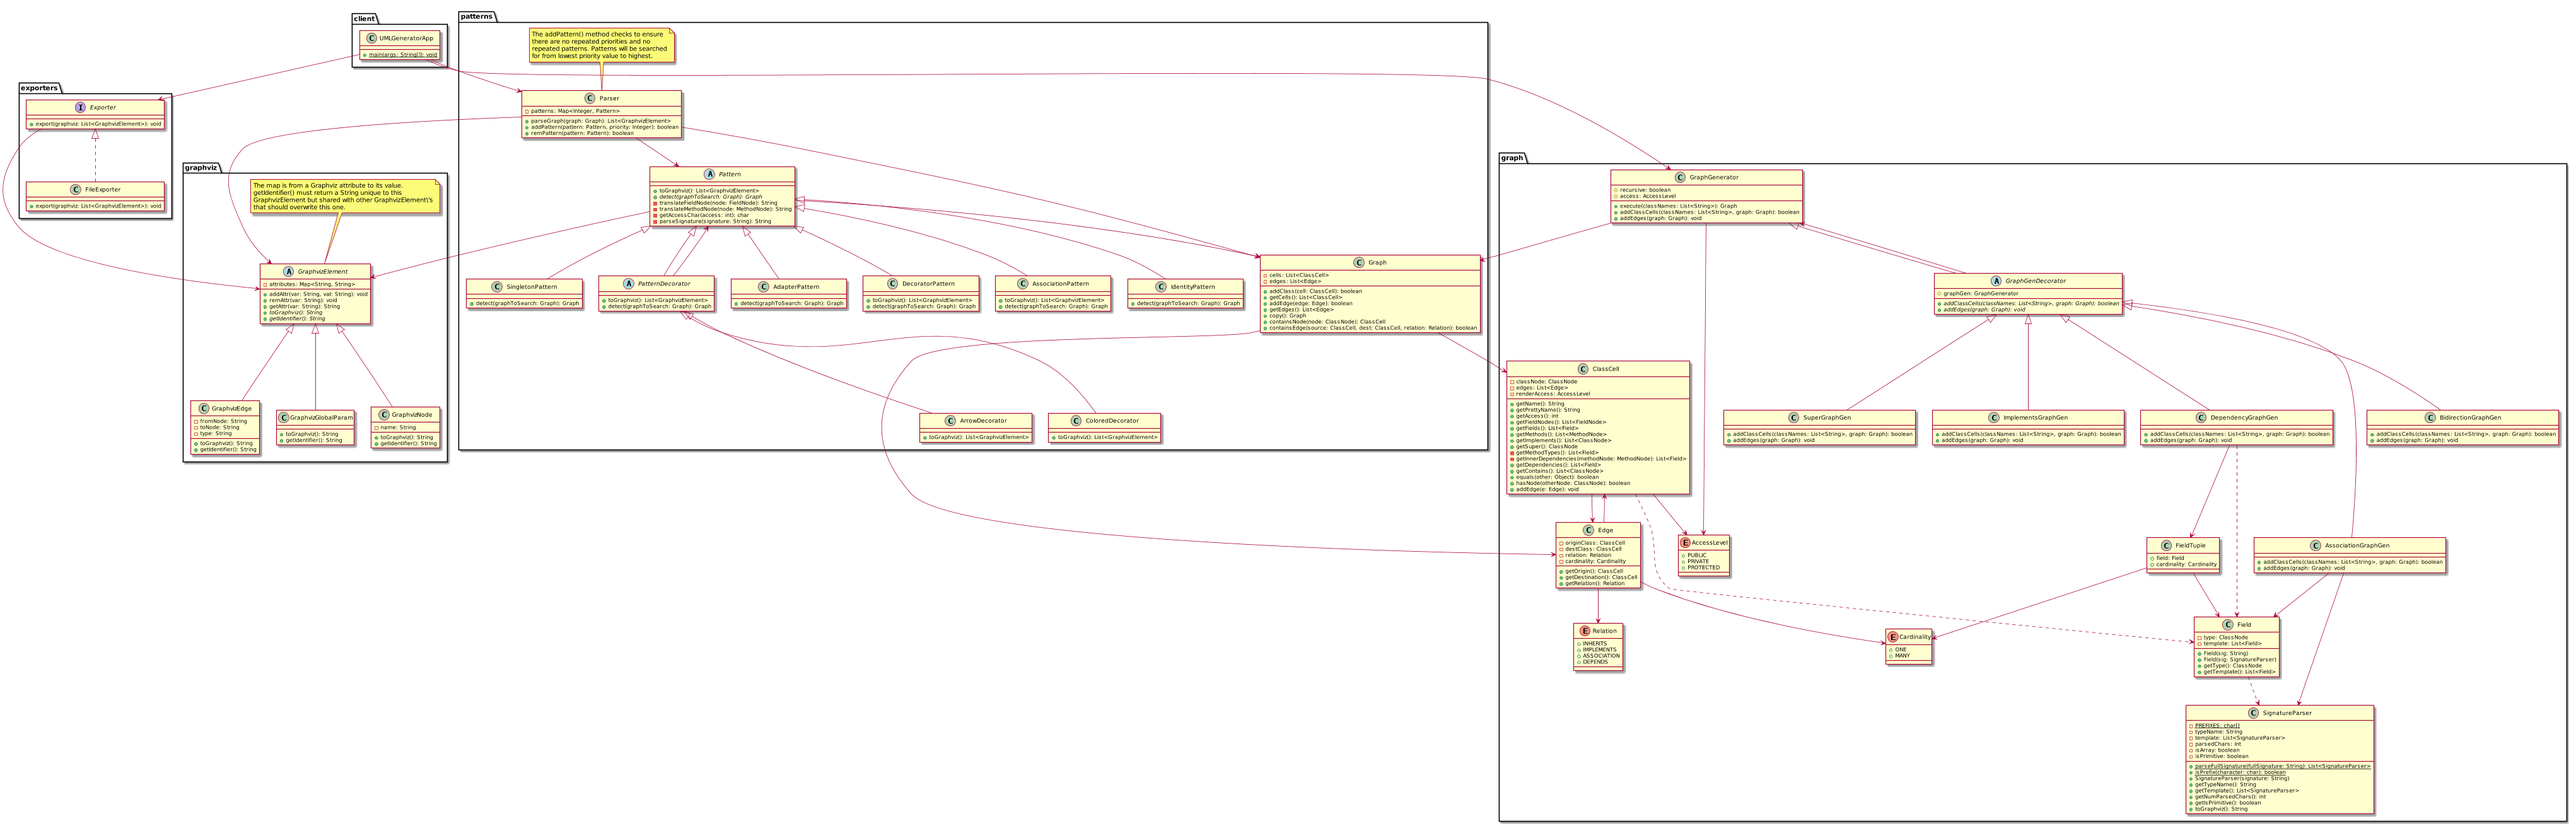
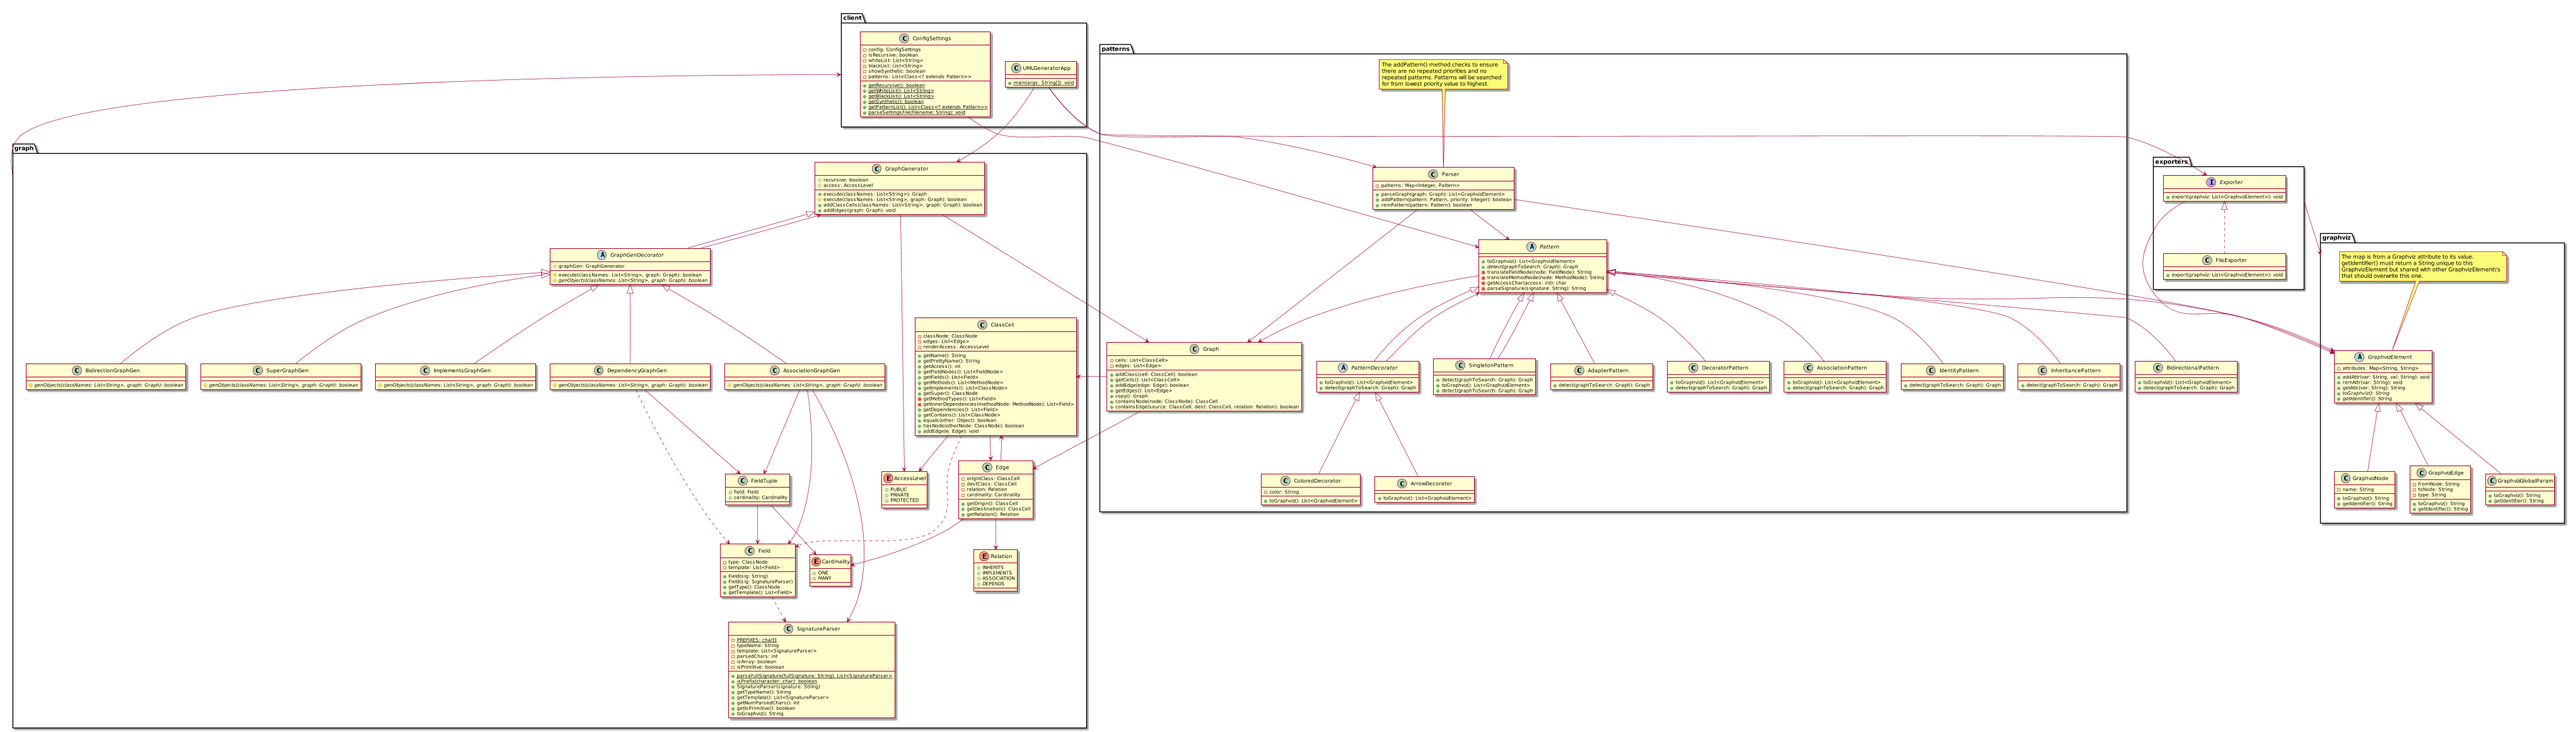
Updated UML and cleaned up GraphGenDecorators.

diff --git a/src/graph/DependencyGraphGen.java b/src/graph/DependencyGraphGen.java
@@ -14,102 +14,71 @@ import org.objectweb.asm.tree.ClassNode;
 /**
  * Created by lewis on 1/11/17.
  */
-public class DependencyGraphGen  {//extends GraphGenDecorator {
-//    private Graph edgesToAdd;
-//    private Graph lastCalled;
-//
-//    public DependencyGraphGen(GraphGenerator graphGen) {
-//        super(graphGen);
-//    }
-//
-//    @Override
-//    public boolean addClassCells(List<String> classNames, Graph graph) {
-//        edgesToAdd = new Graph();
-//        lastCalled = graph;
-//
-//        boolean retBool = this.graphGen.addClassCells(classNames, graph);
-//        boolean changed;
-//
-//        do {
-//            changed = false;
-//
-//            Queue<ClassCell> classesToCheck = new LinkedList<>();
-//            classesToCheck.addAll(graph.getCells());
-//            Set<String> addedClasses = new HashSet<>();
-//            addedClasses.addAll(graph.getCellNames());
-//
-//            ClassCell currentClass;
-//            while (!classesToCheck.isEmpty()) {
-//                currentClass = classesToCheck.remove();
-//
-//                try {
-//                    Queue<FieldTuple> fieldsToCheck = new LinkedList<>();
-//                    Field field;
-//                    for (Field f : currentClass.getDependencies()) {
-//                        fieldsToCheck.add(new FieldTuple(f, Edge.Cardinality.ONE));
-//                    }
-//                    while(!fieldsToCheck.isEmpty()) {
-//                        FieldTuple fieldTuple = fieldsToCheck.remove();
-//                        field = fieldTuple.field;
-//                        ClassNode type = field.getType();
-//
-//                        if (type != null) {
-//                            ClassCell referencedCell = new ClassCell(type.name, this.access);
-//
-//                            if (recursive && graph.containsNode(type) == null) {
-//                                graph.addClass(referencedCell);
-//                                System.out.println("adding dependency class: " + referencedCell.getName());
-//                                classesToCheck.add(referencedCell);
-//                                changed = true;
-//                                retBool = true;
-//                            }
-//
-//                            if (!type.name.equals(currentClass.getName())) {
-//                                if (graph.containsNode(type) != null
-//                                        && !edgesToAdd.containsEdge(currentClass, referencedCell, Edge.Relation.DEPENDS, fieldTuple.cardinality)) {
-//                                    edgesToAdd.addEdge(new Edge(currentClass, referencedCell, Edge.Relation.DEPENDS, fieldTuple.cardinality));
-//                                }
-//                                if (Collection.class.isAssignableFrom(Class.forName(type.name.replace("/", ".")))) {
-//                                    fieldTuple.cardinality = Edge.Cardinality.MANY;
-//                                }
-//                            }
-//                        }
-//
-//                        if (field.getTemplate() != null) {
-//                            for (Field f : field.getTemplate()) {
-//                                fieldsToCheck.add(new FieldTuple(f, fieldTuple.cardinality));
-//                            }
-//                        }
-//                    }
-//                } catch (IOException e) {
-//                    e.printStackTrace();
-//                } catch (ClassNotFoundException e) {
-//                    e.printStackTrace();
-//                }
-//            }
-//        } while (changed && this.graphGen.addClassCells(new LinkedList<>(), graph));
-//
-//        return retBool;
-//    }
-//
-//    @Override
-//    public void addEdges(Graph graph) {
-//        this.graphGen.addEdges(graph);
-//
-//        if (graph == lastCalled) {
-//            for (Edge edge : edgesToAdd.getEdges()) {
-//                graph.addEdge(edge);
-//            }
-//        }
-//    }
-//
-//    private class FieldTuple {
-//        public Field field;
-//        public Edge.Cardinality cardinality;
-//
-//        public FieldTuple(Field field, Edge.Cardinality cardinality) {
-//            this.field = field;
-//            this.cardinality = cardinality;
-//        }
-//    }
+public class DependencyGraphGen extends GraphGenDecorator {
+
+    public DependencyGraphGen(GraphGenerator graphGen) {
+        super(graphGen);
+    }
+
+    @Override
+    public boolean genObjects(List<String> classNames, Graph graph) {
+        boolean changed = false;
+
+        Queue<ClassCell> classesToCheck = new LinkedList<>();
+        classesToCheck.addAll(graph.getCells());
+        Set<String> addedClasses = new HashSet<>();
+        addedClasses.addAll(graph.getCellNames());
+
+        ClassCell currentClass;
+        while (!classesToCheck.isEmpty()) {
+            currentClass = classesToCheck.remove();
+
+            try {
+                Queue<FieldTuple> fieldsToCheck = new LinkedList<>();
+                Field field;
+                for (Field f : currentClass.getDependencies()) {
+                    fieldsToCheck.add(new FieldTuple(f, Edge.Cardinality.ONE));
+                }
+                while (!fieldsToCheck.isEmpty()) {
+                    FieldTuple fieldTuple = fieldsToCheck.remove();
+                    field = fieldTuple.field;
+                    ClassNode type = field.getType();
+
+                    if (type != null) {
+                        ClassCell referencedCell = new ClassCell(type.name, this.access);
+
+                        if (recursive && graph.containsNode(type) == null) {
+                            graph.addClass(referencedCell);
+                            classesToCheck.add(referencedCell);
+                            changed = true;
+                        }
+
+                        if (!type.name.equals(currentClass.getName())) {
+                            if (graph.containsNode(type) != null
+                                    && !graph.containsEdge(currentClass, referencedCell, Edge.Relation.DEPENDS,
+                                    fieldTuple.cardinality)) {
+                                graph.addEdge(new Edge(currentClass, referencedCell, Edge.Relation.DEPENDS, fieldTuple
+                                        .cardinality));
+                            }
+                            if (Collection.class.isAssignableFrom(Class.forName(type.name.replace("/", ".")))) {
+                                fieldTuple.cardinality = Edge.Cardinality.MANY;
+                            }
+                        }
+                    }
+
+                    if (field.getTemplate() != null) {
+                        for (Field f : field.getTemplate()) {
+                            fieldsToCheck.add(new FieldTuple(f, fieldTuple.cardinality));
+                        }
+                    }
+                }
+            } catch (IOException e) {
+                e.printStackTrace();
+            } catch (ClassNotFoundException e) {
+                e.printStackTrace();
+            }
+        }
+
+        return changed;
+    }
 }

diff --git a/src/graph/ImplementsGraphGen.java b/src/graph/ImplementsGraphGen.java
@@ -10,65 +10,40 @@ import java.util.Set;
 
 import org.objectweb.asm.tree.ClassNode;
 
-public class ImplementsGraphGen {//extends GraphGenDecorator {
-//    public ImplementsGraphGen(GraphGenerator graphGen) {
-//        super(graphGen);
-//    }
-//
-//    @Override
-//    public boolean addClassCells(List<String> classNames, Graph graph) {
-//        boolean retBool = this.graphGen.addClassCells(classNames, graph);
-//
-//        if (!this.recursive) {
-//            return false;
-//        }
-//
-//        boolean changed;
-//
-//        do {
-//            changed = false;
-//
-//            Queue<ClassCell> classesToImplement = new LinkedList<>();
-//            classesToImplement.addAll(graph.getCells());
-//            Set<String> addedClasses = new HashSet<>();
-//            addedClasses.addAll(graph.getCellNames());
-//
-//            ClassCell currentClass;
-//
-//            while (!classesToImplement.isEmpty()) {
-//                currentClass = classesToImplement.remove();
-//                try {
-//                    for (ClassNode implementedNode : currentClass.getImplements()) {
-//                        if  (graph.containsNode(implementedNode) == null) {
-//                            ClassCell implementedCell = new ClassCell(implementedNode.name, this.access);
-//                            graph.addClass(implementedCell);
-//                            classesToImplement.add(implementedCell);
-//                            changed = true;
-//                            retBool = true;
-//                        }
-//                    }
-//                } catch (IOException e) {
-//                    e.printStackTrace();
-//                }
-//            }
-//        } while (changed && this.graphGen.addClassCells(new LinkedList<>(), graph));
-//
-//        return retBool;
-//    }
-//
-//    @Override
-//    public void addEdges(Graph graph) {
-//        this.graphGen.addEdges(graph);
-//
-//        for (ClassCell cell : graph.getCells()) {
-//            for (ClassNode destNode : cell.getImplements()) {
-//                ClassCell destCell = graph.containsNode(destNode);
-//                if (destCell != null) {
-//                    graph.addEdge(new Edge(cell, destCell, Edge.Relation.IMPLEMENTS));
-//                }
-//            }
-//
-//        }
-//
-//    }
+public class ImplementsGraphGen extends GraphGenDecorator {
+    public ImplementsGraphGen(GraphGenerator graphGen) {
+        super(graphGen);
+    }
+
+    @Override
+    protected boolean genObjects(List<String> classNames, Graph graph) {
+        boolean changed = false;
+
+        Queue<ClassCell> classesToImplement = new LinkedList<>();
+        classesToImplement.addAll(graph.getCells());
+        Set<String> addedClasses = new HashSet<>();
+        addedClasses.addAll(graph.getCellNames());
+
+        ClassCell currentClass;
+
+        while (!classesToImplement.isEmpty()) {
+            currentClass = classesToImplement.remove();
+            try {
+                for (ClassNode implementedNode : currentClass.getImplements()) {
+                    ClassCell implementedCell = new ClassCell(implementedNode.name, this.access);
+                    if  (graph.containsNode(implementedNode) == null) {
+                        graph.addClass(implementedCell);
+                        classesToImplement.add(implementedCell);
+                        changed = true;
+                    }
+
+                    graph.addEdge(new Edge(currentClass, implementedCell, Edge.Relation.IMPLEMENTS));
+                }
+            } catch (IOException e) {
+                e.printStackTrace();
+            }
+        }
+
+        return changed;
+    }
 }

diff --git a/src/graph/AssociationGraphGen.java b/src/graph/AssociationGraphGen.java
@@ -7,12 +7,8 @@ import java.util.*;
 
 
 public class AssociationGraphGen extends GraphGenDecorator {
-    private Graph edgesToAdd;
-    private Graph lastCalled;
-
     public AssociationGraphGen(GraphGenerator graphGen) {
         super(graphGen);
-        edgesToAdd = new Graph();
     }
 
     public boolean genObjects(List<String> classNames, Graph graph) {
@@ -49,8 +45,10 @@ public class AssociationGraphGen extends GraphGenDecorator {
 
                         if (!type.name.equals(currentClass.getName())) {
                             if (graph.containsNode(type) != null
-                                    && !edgesToAdd.containsEdge(currentClass, referencedCell, Edge.Relation.ASSOCIATION, fieldTuple.cardinality)) {
-                                edgesToAdd.addEdge(new Edge(currentClass, referencedCell, Edge.Relation.ASSOCIATION, fieldTuple.cardinality));
+                                    && !graph.containsEdge(currentClass, referencedCell, Edge.Relation.ASSOCIATION,
+                                    fieldTuple.cardinality)) {
+                                graph.addEdge(new Edge(currentClass, referencedCell, Edge.Relation.ASSOCIATION,
+                                        fieldTuple.cardinality));
                             }
                             if (Collection.class.isAssignableFrom(Class.forName(type.name.replace("/", ".")))) {
                                 fieldTuple.cardinality = Edge.Cardinality.MANY;
@@ -72,30 +70,5 @@ public class AssociationGraphGen extends GraphGenDecorator {
         }
 
         return changed;
-    }
-
-    @Override
-    public boolean addClassCells(List<String> classNames, Graph graph) {
-        edgesToAdd = new Graph();
-        lastCalled = graph;
-
-        boolean retBool = this.graphGen.addClassCells(classNames, graph);
-        boolean changed;
-
-        do {
-
-        } while (changed && this.graphGen.addClassCells(new LinkedList<>(), graph));
-        return retBool;
-    }
-
-    @Override
-    public void addEdges(Graph graph) {
-        this.graphGen.addEdges(graph);
-
-        if (graph == lastCalled) {
-            for (Edge edge : edgesToAdd.getEdges()) {
-                graph.addEdge(edge);
-            }
-        }
     }
 }

diff --git a/src/client/UMLGeneratorApp.java b/src/client/UMLGeneratorApp.java
@@ -46,9 +46,9 @@ public class UMLGeneratorApp {
 
         GraphGenerator generator = new GraphGenerator(recursive, accessLevel);
 //        generator = new ImplementsGraphGen(generator);
-        generator = new SuperGraphGen(generator);
-//        generator = new AssociationGraphGen(generator);
-//        generator = new DependencyGraphGen(generator);
+//        generator = new SuperGraphGen(generator);
+        generator = new AssociationGraphGen(generator);
+        generator = new DependencyGraphGen(generator);
         Graph g = generator.execute(classNames);
         Parser parser = new Parser();
         Pattern idPattern = new IdentityPattern();

diff --git a/src/graph/GraphGenDecorator.java b/src/graph/GraphGenDecorator.java
@@ -15,7 +15,6 @@ public abstract class GraphGenDecorator extends GraphGenerator {
         boolean retBool = changed;
 
         do {
-            System.out.println(this + " is looping in the do-while.");
             changed = genObjects(classNames, graph);
             retBool = changed || retBool;
         } while (recursive && (changed || graphGen.execute(classNames, graph)));

diff --git a/src/graph/SuperGraphGen.java b/src/graph/SuperGraphGen.java
@@ -25,7 +25,6 @@ public class SuperGraphGen extends GraphGenDecorator {
         ClassCell superClass;
 
         while (!classesToSuper.isEmpty()) {
-            System.out.println(this + " is looping in the while.");
             currentClass = classesToSuper.remove();
             try {
                 if (currentClass.getSuper() != null) {
